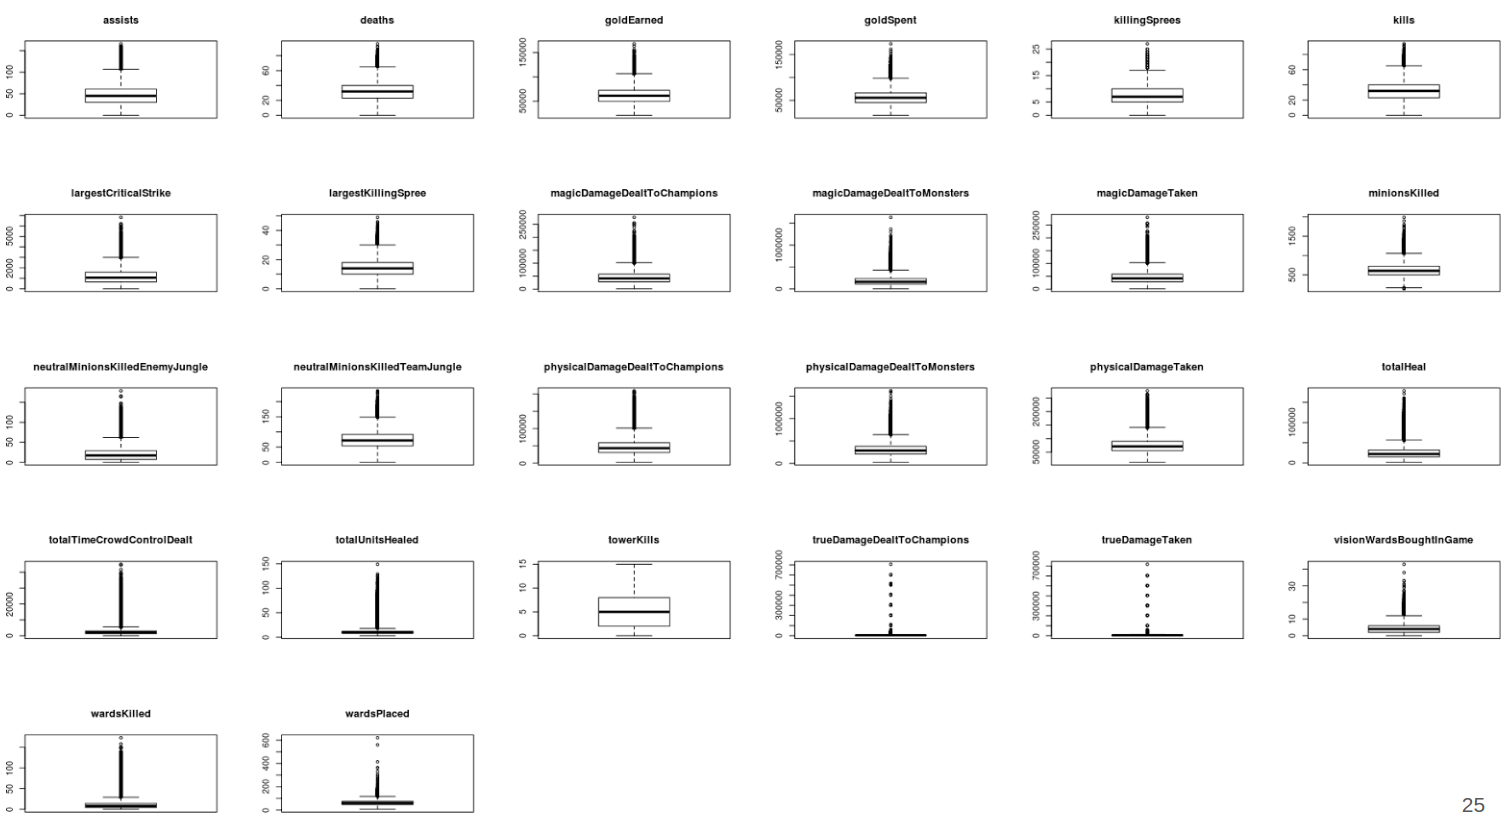
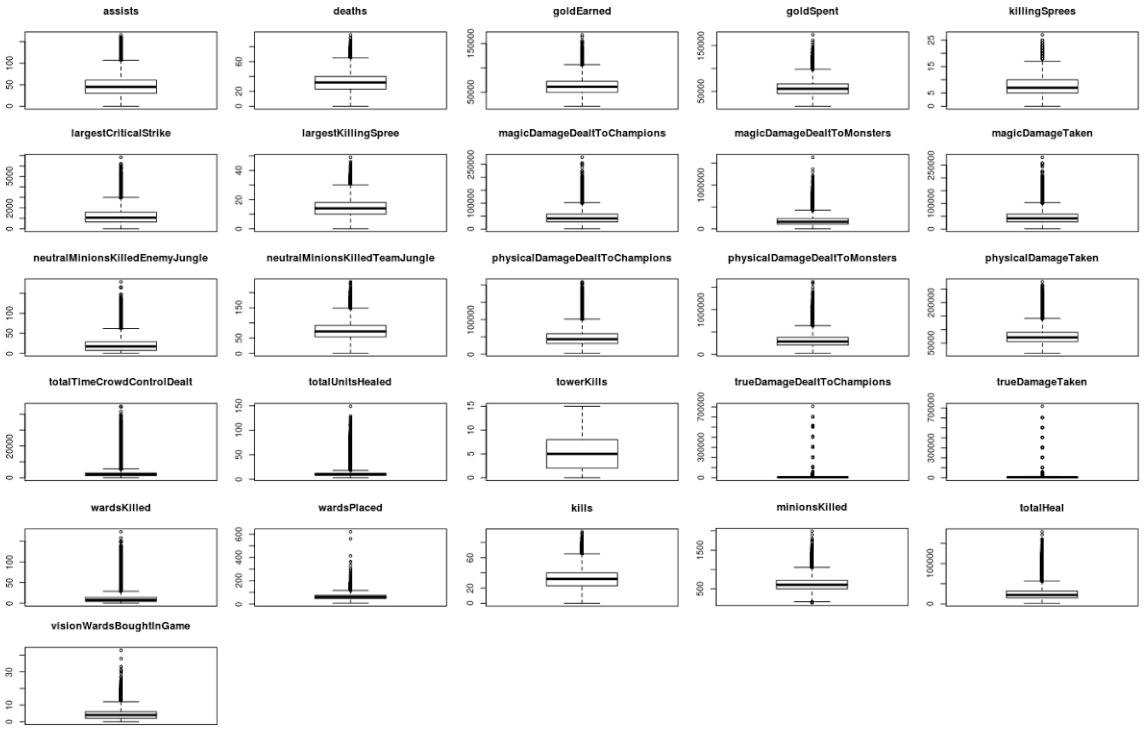
improve outlier detection  section

diff --git a/cap1.tex b/cap1.tex
@@ -429,13 +429,22 @@ wardsPlaced&                         7&     621&     62.39&     60.0&         44
 \end{table*}
 
 \section{\fj{Detec\c{c}\~ao}{Remo\c{c}\~ao} de \textit{Outliers}}
-\fj{}{A Figura ~\ref{fig:boxplots} ilustra os gráficos dos \textit{boxplots} das caracter\'isticas do conjunto de desempenho de equipes. Como podemos observar, existem muitos valores discrepantes (\textit{outliers})}. \fj{Utilizamos um Intervalo Interquartil de $fator = 1,5$ para encontrar os \textit{outliers} de cada caracter\'istica no conjunto de dados.}{} \fj{Equipes}{Então, equipes} com algum \fj{a}{\textit{outlier} em suas} \fj{caracter\'istica}{caracter\'isticas} \fj{an\^omala}{} foram removidas dos dados \fj{}{com base em um Intervalo Interquartil de $fator = 3,5$ para que o comportamento dos dados não fosse afetado de forma brusca}. 
+
+A fim de encontrar padrões, adotamos o \textit{K-means clustering} para agrupar equipes similares conforme o desempenho das equipes nas partidas que foram coletadas (mais sobre o agrupamento no Capítulo ~\ref{cap:perfiscomportamento}). No entanto, o \textit{K-means clustering} é muito sensível a dados discrepantes (\textit{outliers}) \cite{gan2017k}, pois como o nome sugere, seu algoritmo é baseado no cálculo das médias entre os grupos para encontrar o grupo mais adequado para cada observação do conjunto de dados. Portanto, antes que fizessemos o agrupamento dos dados, criamos gráficos \textit{boxplots} a partir das características dos dados para analisar se existiam ou não \textit{outliers} nos dados.
+
+% TODO Because the mean, as a statistic, is generally sensitive to outliers.
+% http://www.math.uconn.edu/~gan/ggpaper/gan2017kmor.pdf
+% http://www.math.uconn.edu/~gan/ggpaper/gan2017kmor.pdf
+% https://www.quora.com/How-are-k-means-clustering-algorithms-sensitive-to-outliers
+% https://www.researchgate.net/post/Which_is_the_best_method_for_removing_outliers_in_a_data_set
+
+A Figura ~\ref{fig:boxplots} ilustra os gráficos dos \textit{boxplots} das caracter\'isticas do conjunto de desempenho das equipes. Como podemos observar, existe uma quantidade muito considerável de \textit{outliers} nos dados. Desse modo, como não temos idéia da causa desse comportamento, decidimos remover apenas equipes consideradas \textit{outliers} extremos, isto é, removemos aquelas equipes com algum \textit{outlier} em suas caracter\'isticas com base em um Intervalo Interquartil do Boxplot $IQR = 3,5$.
 
 Em seguida, realizamos uma \fj{an\'alise para remover caracter\'isticas com baixa vari\^ancia novamente}{estat\'istica descritiva dos dados novamente e percebemos que algumas caracter\'isticas estavam com vari\^ancia pr\'oxima de zero}. Após \fj{a}{essa} análise, as seguintes características \fj{}{com vari\^ancia pr\'oxima de zero} foram removidas: \textit{totalUnitsHelead} e \textit{visionWardsBoughtInGame}.
 
 \begin{figure*}
   \centering
-  \includegraphics[width=1.0\textwidth]{boxplots}%
+  \includegraphics[angle=90,width=0.95\textwidth]{boxplots}%
   \caption{Gráfico de \textit{boxplot} para cada característica do conjunto de desempenho de equipes até o momento da etapa de \fj{detec\c{c}\~ao}{remo\c{c}\~ao} de \textit{outliers}.}
   \label{fig:boxplots}
 \end{figure*}
@@ -480,7 +489,7 @@ Desse modo, \fj{}{dado que $X_{j} \in X$ \'e uma caracter\'istica de $X$}, para 
 
 \fj{Portanto}{Após essa análise}, removemos as seguintes características: \textit{assists}; \textit{goldEarned}; \textit{goldSpent}; \textit{kills}; \textit{largestKillingSpree}; \textit{magicDamageDealtToChampions}; \textit{physicalDamageDealtToChampions}; \textit{towerKills}.
 
-\chapter{Perfis de Comportamento}
+\chapter{Perfis de Comportamento} \label{cap:perfiscomportamento}
 
 O problema de encontrar perfis de desempenho de equipes pode ser considerado equivalente ao problema de identificar grupos de desempenho de equipes de comportamento semelhante. Para abordar esse problema, usamos o método de mineração de dados \textit{K-means clustering} \cite{zaki2014data} para agrupar equipes semelhantes conforme os seus desempenhos nas partidas. Em seguida, caracterizamos \fj{e definimos r\'otulos para}{} os grupos de desempenho de equipes de modo a colocar em perspectiva suas principais características ou \fj{estat\'isticas}{m\'etricas} de desempenho \fj{}{e, assim, definir perfis de comportamento}.
 

diff --git a/main_mestrado.tex b/main_mestrado.tex
@@ -21,6 +21,7 @@
 \usepackage{booktabs} % For formal tables
 \usepackage[inline]{enumitem}
 \usepackage{caption}
+\captionsetup{labelfont=bf}
 %-------------------------- Para usar acentuacaoo em sistemas ISO8859-1 ------------------------------------
 % Se estiver usando o Microsoft Windows ou linux com essa codificacao, descomente essa linhas abaixo
 % e comente as linhas referentes ao UTF8
